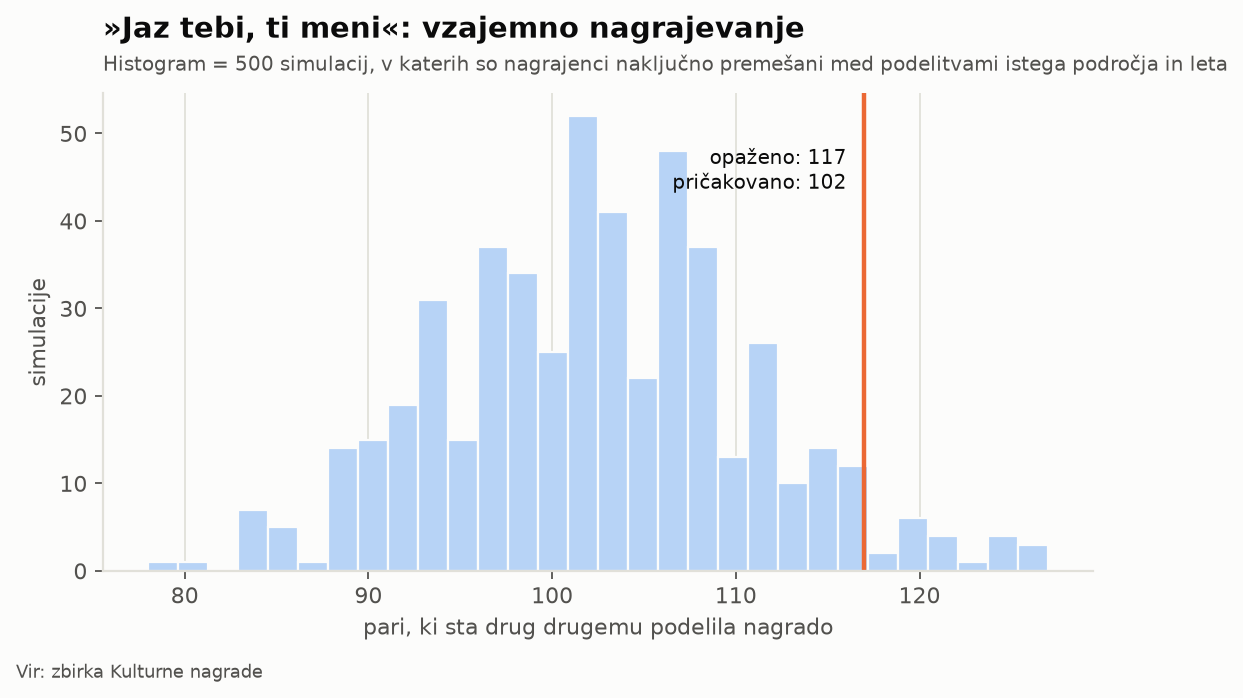
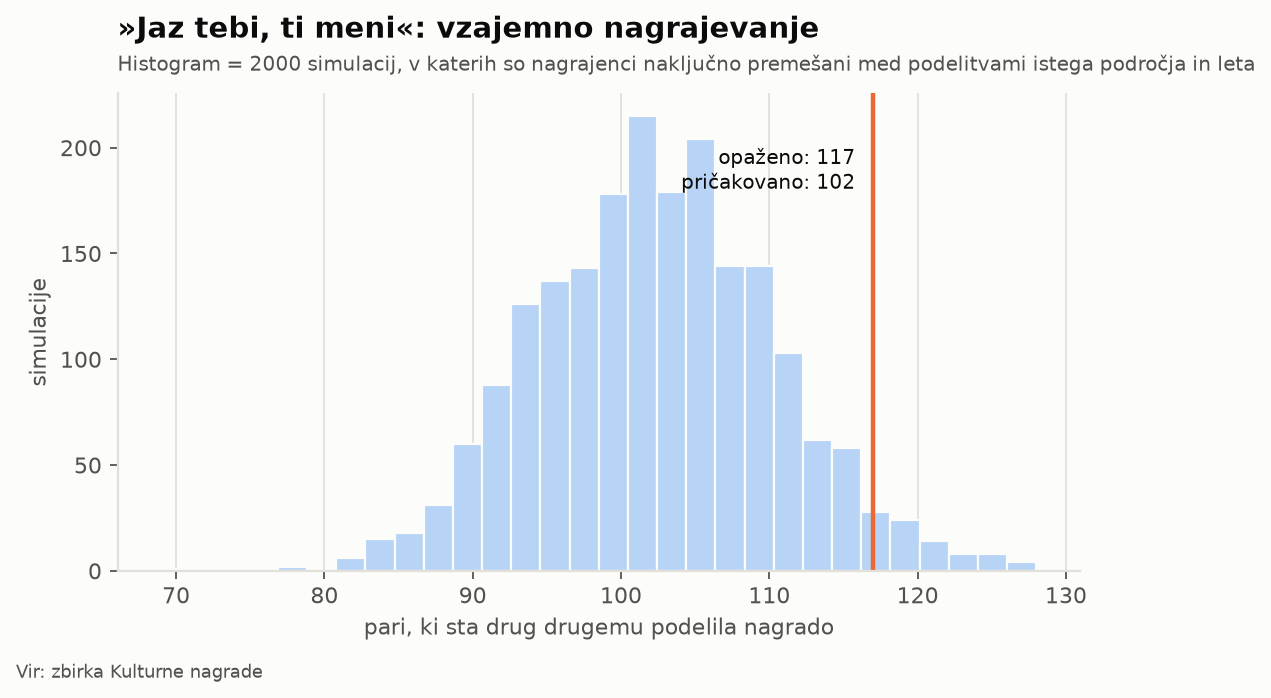
Findings and handoff for session 6; reciprocity with 2,000 shuffles (borderline excess), site text follows the verdict

diff --git a/src/kulturne_nagrade/site_findings.py b/src/kulturne_nagrade/site_findings.py
@@ -193,8 +193,16 @@ def women_to_juries() -> dict:
 def reciprocity() -> dict:
     """§4: pairs who each sat on a jury that awarded the other."""
     r = _res("juries")["reciprocity"]
+    more = r["p"] < SIG
     return {
-        "n": {"pairs": _int(r["pairs_observed"]), "expected": _int(r["pairs_expected"])},
+        "n": {"pairs": _int(r["pairs_observed"]), "expected": _int(r["pairs_expected"]),
+              "excess": _pct(r["ratio"] - 1),
+              "headline": ("se zgodi le malo pogosteje, kot bi pričakovali" if more
+                           else "se ne zgodi pogosteje, kot bi pričakovali"),
+              "answer": ("Nekaj ga je, a malo." if more else "Ni ga."),
+              "verdict": ("Razlika je majhna, vendar prevelika, da bi bila naključna. Večino "
+                          "vzajemnega nagrajevanja torej pojasni že majhnost prostora."
+                          if more else "Razlika je majhna in je lahko naključna.")},
         "chart": {"type": "bars", "props": {
             "rows": [{"label": "pari, ki sta drug drugemu podelila nagrado",
                       "value": r["pairs_observed"], "compare": r["pairs_expected"],

diff --git a/src/kulturne_nagrade/analysis/juries.py b/src/kulturne_nagrade/analysis/juries.py
@@ -35,7 +35,7 @@ from kulturne_nagrade.analysis.common import bh_fdr, permutation_p, rng
 
 THEME = "juries"
 N_PERM = 2000
-N_PERM_RECIPROCITY = 500
+N_PERM_RECIPROCITY = 2000
 
 
 def run() -> dict:

diff --git a/docs/findings.md b/docs/findings.md
@@ -1,8 +1,9 @@
 # Findings
 
 Numbers come from `results/*.json` (run of 2026-11-01, after the duplicate-editions
-and resolved-names reviews, the Zlata ptica relabelling to ceremony years, the
-addition of Zlata strela and the removal of the commission data). The data covers
+and resolved-names reviews, the Zlata ptica relabelling to ceremony years and its
+reclassification from literature to "umetnost in kultura", the addition of Zlata
+strela and the removal of the commission data). The data covers
 96 awards, 2,067 editions and 1949–2026, with jury lists for 64% of editions. Coverage is
 dense from about 2000; before that, results rest on fewer awards. See
 `docs/methods.md` for how each number was computed and `plots/<theme>/` for the
@@ -28,14 +29,15 @@ fields. This overturns the legacy "homophily" result.
 
 ### 3. Former jurors win more often than their peers, but only a little, and mostly at three awards
 **187** winners had sat on the same award's jury before winning it. Comparable
-peers (winners of other awards in the same field and year) would give **152**:
-a premium of **1.23×** (p < 0.001), and 1.24× when peers are also age-matched.
+peers (winners of other awards in the same field and year) would give **150**:
+a premium of **1.25×** (p < 0.001), and 1.25× when peers are also age-matched
+(129 against 103).
 Per award, after correcting for testing about 70 awards:
 - **Desetnica**: 9 of its 25 winners had previously sat on its jury, against
   about 1–2 expected. This is the clearest case, and it survives age matching.
 - **Nagrada Franceta Štiglica**: 10 against 3.5 expected. Weaker with age
   matching.
-- **Prešernova nagrada**: 27 against 12 expected, but with age-matched peers
+- **Prešernova nagrada**: 27 against 11 expected, but with age-matched peers
   it is 23 against 17.6, which is not significant. Most of the apparent
   premium is seniority: the people who sit on the Prešeren jury are the same
   generation that receives the lifetime award.
@@ -44,17 +46,18 @@ The legacy list of "insider" awards (Stritarjeva, Mira, Jenkova…) does not
 survive a proper null.
 *Figure: `plots/juries/nekdanji_ziranti_med_nagrajenci.png`*
 
-### 4. "I award you, you award me" happens no more than chance
+### 4. "I award you, you award me" happens only slightly more than chance
 There are **117** pairs of people who each sat on a jury that awarded the
-other. Random reshuffling of winners within the same field and year produces
-**103** on average (p = 0.07). In a scene this small, mutual awarding is
-largely unavoidable.
+other. Random reshuffling of winners within the same field and year (2,000
+shuffles) produces **102** on average: **1.14×**, p = 0.04. Earlier runs with
+500 shuffles gave p = 0.05–0.07, so this is borderline. In a scene this small,
+most mutual awarding is unavoidable; the excess is about 15 pairs.
 *Figure: `plots/juries/vzajemno_nagrajevanje.png`*
 
 ### 5. Women laureates are recruited to juries faster than men
 Of people first awarded in 2000 or later, **19%** of women and **14%** of men
 sat on a jury within ten years. Within the same field, women's rate is
-**1.4×** that of men (Cox HR 1.38, 95% CI 1.09–1.75, p = 0.007). This is part
+**1.4×** that of men (Cox HR 1.39, 95% CI 1.10–1.76, p = 0.006). This is part
 of why juries became majority-female before winner lists did.
 
 The reverse path is rarer. Of 1,053 people first seated on a jury in 2000 or
@@ -244,8 +247,8 @@ does not show in the data. Of people whose first prestige-5 award came in 2005
 or later, only **20%** had any earlier award in the data and **10%** an earlier
 jury seat. That is no more than for a first tier-4 award (18%, 14%) or a first
 tier-3 award (31%, 21%). Within the same field and year, the crowned are
-**less** likely than tier-3 winners to have judged before (−12 points,
-p = 0.003). The crown does not change what follows either: about 22% sit on a
+**less** likely than tier-3 winners to have judged before (−11 points,
+p = 0.005). The crown does not change what follows either: about 22% sit on a
 jury and 34% win again within 10 years, the same as after a tier-4 award. A
 caveat is that lesser awards in some fields are missing from the data, so part
 of the "no record" group did have a record we cannot see.
@@ -256,8 +259,8 @@ Since 2000, only **13%** of winners have awards in more than one field. If wins
 were spread at random (keeping each field's wins and each person's number of
 wins), it would be 26%. Literature and poetry share winners at **2.2×**
 chance, and poetry and the umbrella awards (Prešeren, Župančič, Ježek) at
-1.7×. Every other pair of fields shares fewer than chance. Film and theatre,
-for example, share 52 winners against 100 expected.
+1.6×. Every other pair of fields shares fewer than chance. Film and theatre,
+for example, share 53 winners against 102 expected.
 
 The longest runs of consecutive years on juries come from standing juries:
 **Tone Peršak, 41 years** (1986–2026, mostly Vilenica), Andrej Blatnik 36,
@@ -268,12 +271,12 @@ two or more different awards. The maximum is four (Leo Černic, 2023, all film
 awards for the same work).
 **Juries mostly draw on their own field.** Since 2000, **65%** of seats on
 field juries are held by people with no earlier field award in the data. Of the
-rest, **19%** sit on a jury outside their home field (the field of most of
+rest, **17%** sit on a jury outside their home field (the field of most of
 their earlier wins; poetry counted as literature; umbrella juries excluded).
 Journalism juries are the exception: 58% of their awarded jurors come from
-elsewhere, mostly writers (45%). Literature juries draw 10% from outside and
+elsewhere, mostly writers (45%). Literature juries draw 8% from outside and
 architecture juries none. Within the same award, the outside share is
-*falling*, by 7 points per decade (95% CI −13 to −1, p = 0.015).
+*falling*, by 6 points per decade (95% CI −11 to −1, p = 0.03).
 *Figures: `plots/mobility/prehajanje_podrocij.png`, `nizi_v_zirijah.png`,
 `ziranti_iz_drugih_podrocij.png`*
 
@@ -332,11 +335,12 @@ Alenka Bole Vrabec (1 against 6.7, p = 0.01); neither survives correction
 how many winners they had picked.
 
 **From one award's jury to another award.** Extending §3 to pairs of awards:
-of 2,375 award pairs, **4** show more winners who earlier sat on the other
+of 2,367 award pairs, **3** show more winners who earlier sat on the other
 award's jury than peers of the same field and year would. All are small and
 within one field: Borštnikov prstan jury → Bert (5 against 0.4), Kritiško sito
-→ Stritarjeva nagrada (6 against 0.6), Grumova nagrada → Nagrada Vladimirja
-Kralja (4 against 0.3) and Zlata ptica → Rožančeva nagrada (3 against 0.1).
+→ Stritarjeva nagrada (6 against 0.6) and Grumova nagrada → Nagrada Vladimirja
+Kralja (4 against 0.3). (Zlata ptica → Rožančeva nagrada, 3 against 0.1, no
+longer passes the correction since Zlata ptica moved out of literature.)
 Jury seats are counted in sittings, and wins by someone who had also sat on the
 winning award's own jury are left to §3.
 *Figures: `plots/influence/kraljevi_ustvarjalci.png`, `iz_zirije_v_drugo_nagrado.png`*
@@ -344,18 +348,18 @@ winning award's own jury are left to §3.
 ### 21. Many awards come back to their own past winners; awards do not share juror pools
 **Repeat winners.** Among the winners of the same field and year, people who
 had already won an award win it again more often than chance: **565** repeat
-wins against **451** expected (1.25×, p < 0.001). This holds at **19 awards**
+wins against **448** expected (1.26×, p < 0.001). This holds at **19 awards**
 after correction. The strongest are the Grumova nagrada (24 against 3), Kresnik
 (10 against 1), Desetnica (7 against 1), Dnevnikova nagrada (10 against 2),
-Levstikova nagrada (59 against 25) and Borštnikovo srečanje (59 against 28).
+Levstikova nagrada (59 against 28) and Borštnikovo srečanje (59 against 28).
 The **Prešernov sklad** is the opposite: it almost never goes to a past
-laureate (12 against 110 expected). Its laureates go on to the Prešernova
+laureate (12 against 104 expected). Its laureates go on to the Prešernova
 nagrada instead (§8).
 
 **Shared juror pools.** 595 award pairs share at least one juror, but **none**
 shares more than random juries of the same field and period would (after
 correction). In total, 1,413 people sat on the juries of two awards, against
-8,165 under random juries: jurors stay with one award. The strongest
+8,089 under random juries: jurors stay with one award. The strongest
 candidates are small film-award pairs (butnskala and najsvetlejša zvezda
 Oriona; the film critics' award and Nagrada Nike Bohinc) and Bert and Kosobrin,
 whose juries are both the DSR board: one body, not a network.
@@ -382,6 +386,31 @@ The legacy plot read the before/after-1991 comparison as a shift "from the
 Yugoslav axis to the west". The decline is generational and predates 1991; the
 western share did not grow.
 *Figure: `plots/geography/vezi_s_tujino.png`*
+
+### 23. Juries meet familiar faces among the winners, mostly people they had already awarded
+§3 asks whether a juror wins the award they judged. This asks the wider question:
+does a jury pick winners it already knows? A winner has a **tie** to the jury if,
+before that edition, a juror and the winner had sat on a jury together
+(co-jury), a juror had already awarded the winner (judged winner), or the winner
+had sat on a jury that awarded a juror (judged juror). Compared with winners of
+other awards in the same field and year, against the same jury:
+- **Any tie, on any award:** 369 winners against 282 expected (1.31×, p < 0.001).
+- **Ties formed on other awards only** (the strict test, which leaves out a
+  jury's own past winners): **184 against 149** (1.24×, p < 0.001). Age-matched:
+  137 against 109 (1.26×).
+- The excess comes from **juries that had already awarded the winner** (113
+  against 86 on other awards, 1.31×). Having sat on a jury together adds nothing
+  beyond chance (50 against 45 on other awards, p = 0.22). A winner having
+  awarded a juror is borderline (40 against 32, p = 0.05) and vanishes with
+  age-matched peers (24 against 22).
+- Per award, after correction: **Stritarjeva nagrada** (7 of 22 winners
+  against 1.4 expected) and the **Prešernova nagrada** (38 against 16; with
+  age-matched peers 22 against 14, q = 0.08, so partly seniority again).
+
+Read with §3 and the insider direction: a winner later sitting on a jury is a
+custom; a jury rewarding people it has already rewarded elsewhere is a modest,
+real tendency that concentrates recognition on the already recognised.
+*Figure: `plots/juries/znani_obrazi_v_ziriji.png`*
 
 ## Smaller results
 - **Prestige and gender.** Since 2010, women won 37% of top-prestige awards,

diff --git a/docs/handoff.md b/docs/handoff.md
@@ -1,9 +1,60 @@
-# Handoff: state as of 2026-11-01 (end of session 5)
+# Handoff: state as of 2026-11-01 (end of session 6)
 
 Read this first in a new session, together with `CLAUDE.md`,
 `docs/data-model.md`, `docs/methods.md` and `docs/findings.md`.
 
-## Last session (2026-11-01, session 5)
+## Last session (2026-11-01, session 6)
+
+**Published.** The site is live at https://virostatiq.com/kulturne-nagrade/ and the repo
+is public at https://github.com/virostatiq/slo-cultural-awards (MIT code, CC BY 4.0 data,
+ODbL `places.csv`; `CITATION.cff`; CI runs pytest and dataset validation on push).
+- **Public `main` starts from a fresh single commit.** The local branch
+  `private-history` holds the old history (with party-affiliation rows): **never push it.**
+  Party traces were scrubbed before publishing (count-only rows in the decision logs,
+  `DELETE_OFFICES` emptied, `sds.si` sources removed, 2 more political memberships
+  deleted). `CLAUDE.md` is git-ignored by the user.
+- **Deploy:** `uv run python scripts/deploy_site.py` (builds with `SITE_URL`/`SITE_BASE`
+  from `docs/deployment/remote_ftp.txt`, git-ignored, never commit or print it). FTPS,
+  **one connection** (the host allows 2; its firewall, Imunify360, blocked the IP once
+  after a burst), a pause every 200 files, only files whose hash changed
+  (`site/.deploy-manifest.json`, saved every 250 files so a stopped run resumes).
+  `--only GLOB` uploads matching files only; `--no-build`, `--full`, `--from N`. A change to
+  `Base.astro` touches all ~4,260 pages (about 10 minutes).
+- **Analytics:** GA4 `G-NVJ5LQ6EMC` (stream shared with virostatiq.com) loads only after
+  consent (`Consent.astro`, `/zasebnost/`); never on localhost.
+
+**Analyses.**
+- Zlata ptica reclassified to "umetnost in kultura"; person display field = field of
+  wins first, juries only for people with no wins (`graph._main_field`).
+- New: **familiar faces** (`juries.familiar_faces`, findings §23): juries pick winners
+  they had already awarded elsewhere, 113 against 86; co-jury ties add nothing.
+- New in **geography** (from the legacy `plots/location`): **path into juries** (findings
+  §11: Ljubljana-tied winners reach a jury 1.8× as fast within field, but only 212 people
+  are in the outside group), **ties abroad** (§22: ties to former Yugoslavia fall about
+  2 pp per decade within award, no break at 1991; the legacy "shift to the west" does not
+  hold), and `places` (counts per Slovenian place, for the site map). The other legacy
+  location plots were already covered or measure biography detail; see findings §11.
+- **Reciprocity now uses 2,000 shuffles** (was 500): 117 pairs against 102, p = 0.04, so
+  §4 now reads "only slightly more than chance". Site text follows the verdict.
+- `docs/findings.md` re-checked against the re-run (§3, §4, §5, §16, §17, §20, §21).
+
+**Site.**
+- Findings `/ugotovitve/` (18 stories, text in `site/src/content/ugotovitve/*.md`, numbers
+  from `site_findings.py`); a finding can carry `extra` charts. Text with a verdict that can
+  flip (reciprocity) takes its wording from Python, not from the Markdown.
+- **Place map** (`charts/PlaceMap.astro`) on the Ljubljana finding: bubbles per place,
+  Vsi / Nagrajenci / Žiranti, tooltip, counts only. Outlines are openly licensed
+  (NUTS 3, © EuroGeographics; Ljubljana from geoBoundaries/OSM), cached in `.cache/geo/`;
+  GADM stays for the analysis PNGs only (no redistribution). Phone layout not yet
+  checked on a real phone.
+- Home page: four namesake portraits (Trubar, Cankar, Jurčič, Stritar; Wikimedia, public
+  domain) instead of the map. New default OG card rendered with headless Chrome.
+- Map page: tools in the header, collapsible legend. Footer modelled on bloki.si.
+- Favicon: network motif (SVG, ICO, apple-touch, manifest icons).
+- All internal links go through `site/src/lib/url.ts` (the site lives in a subfolder).
+
+## Session 5 (2026-11-01)
+
 
 **Site design makeover.** The phase-1 site looked generic, so three dark static proposals
 were built (bronze plaque, year strip, network sky); the user chose **"Mreža"** (the network
@@ -129,8 +180,8 @@ names review.
 |---|---|
 | Restructure the dataset | **Done.** Normalized CSVs in `data/`, schema in `src/kulturne_nagrade/dataset.py`, `datapackage.json` generated, integrity tests. |
 | Analyse trends | **Done.** 17 themes: coverage, gender, age, juries, power, careers, geography, network, transition, pipeline, dossier, crown, mobility, overview, influence, awards (+ honoured late, in age). Every legacy analysis is ported or deliberately dropped (`docs/methods.md`). |
-| Submit to GitHub | **Not started.** No remote. Branch is `main`. Decide on a licence first (data + code). |
-| Astro site with backend editor | **In progress.** Phase 1 built and reviewed; design "Mreža" applied (session 5, `docs/site.md`). Phase 2 and the local editor to come. |
+| Submit to GitHub | **Done.** Public at github.com/virostatiq/slo-cultural-awards (fresh history; never push `private-history`). |
+| Astro site with backend editor | **Live** at virostatiq.com/kulturne-nagrade. Phase 1, design "Mreža", findings and the place map done; statistics, fields, downloads, per-page OG images and the local editor to come. |
 | Social-media visuals (Slovenian) | **Not started.** The analysis plots in `plots/` already use Slovenian labels and number format, but they are analysis figures, not social cards. |
 
 ## Commands
@@ -251,25 +302,26 @@ analyses, and update `docs/findings.md`.
 
 ## Suggested next steps
 
-1. **Open review items 1–4 and 8 above.**
+1. **Open review items 1–4 and 8 above.** Also unanswered: whether the borderline
+   offices kept during the party scrub (SZDL posts, Liberalna akademija, ZZB NOB) stay.
 2. **Validate gender and places** on hand-checked samples (~100 and ~50).
-3. **GitHub.** Licence (e.g. CC BY 4.0 for data, MIT for code; OSM-derived
-   coordinates in `places.csv` are ODbL), README, CI running `pytest`.
+3. ~~GitHub~~: done (session 6).
 4. **Social cards** from the headline findings. Strong candidates: the
    Ljubljana map (§11), jury seats more concentrated than awards (§16), the
    41-year jury streak (§17), and Prešernova coming late in life (§18). Check
    the Slovenian with the kontekst tools.
-5. **Site, phase 2** (agreed plan, in this order): findings (§1–21 as short
-   Slovenian stories with one chart each and a share image), statistics
+5. **Site, phase 2** (agreed plan, in this order): findings (**done**; share images per
+   finding still to do), statistics
    (interactive versions of the analysis charts; Observable Plot), fields
    (`/podrocje/<field>/`), downloads (CSV, datapackage, licence, citation),
    per-page OG images (person, award, year, finding). Then the **local editor**:
    forms that edit `data/*.csv`, run the dataset validation and append to the
    decision logs in `data/meta/`; local only, no login.
-6. **Data check raised in review:** Drago Jančar is coloured as journalism
-   (11 jury seats there); check how the Jurčičeva nagrada is classified in
-   `awards.csv` (genre).
-7. **Domain:** OG and canonical URLs use a placeholder until `SITE_URL` is set.
+   Open question for the user: should the downloads page include gender and birth
+   years (they are public on GitHub anyway)?
+6. ~~Jančar as journalism~~: fixed by the display-field rule (session 6).
+7. ~~Domain~~: virostatiq.com/kulturne-nagrade (session 6). Consider a separate GA4
+   stream for this site.
 
 ## Legacy project
 

diff --git a/site/src/content/ugotovitve/vzajemno-nagrajevanje.md b/site/src/content/ugotovitve/vzajemno-nagrajevanje.md
@@ -1,12 +1,12 @@
 ---
-title: »Jaz tebi, ti meni« se ne zgodi pogosteje, kot bi pričakovali
+title: »Jaz tebi, ti meni« {{headline}}
 lede: "{{pairs}} parov ljudi je drug drugemu podelilo nagrado: vsak je sedel v žiriji, ki je nagradila drugega. Po naključju bi jih pričakovali okoli {{expected}}."
 order: 4
 chartTitle: Pari, ki sta drug drugemu podelila nagrado
 chartNote: Pričakovano pomeni, koliko takih parov bi nastalo, če bi nagrajence naključno premešali med podelitvami istega področja v istem letu, žirije pa pustili enake.
-method: Za vsak par ljudi smo preverili, ali je eden sedel v žiriji, ki je nagradila drugega, in obratno. Nato smo nagrajence petstokrat naključno premešali med podelitvami istega področja in leta ter vsakič prešteli take pare.
+method: Za vsak par ljudi smo preverili, ali je eden sedel v žiriji, ki je nagradila drugega, in obratno. Nato smo nagrajence dva tisočkrat naključno premešali med podelitvami istega področja in leta ter vsakič prešteli take pare.
 ---
 
 V majhnem kulturnem prostoru se ljudje srečujejo na obeh straneh: danes nekdo sodi, jutri je sam nagrajen. Zato je nekaj vzajemnega nagrajevanja neizogibnega. Vprašanje je, ali ga je več, kot ga prinese že sama majhnost prostora.
 
-Ni ga. Dejanskih parov je {{pairs}}, pri naključnem mešanju pa jih nastane okoli {{expected}}. Razlika je majhna in je lahko naključna.
+{{answer}} Dejanskih parov je {{pairs}}, pri naključnem mešanju pa jih nastane okoli {{expected}}. Dejanskih je torej {{excess}} več. {{verdict}}
